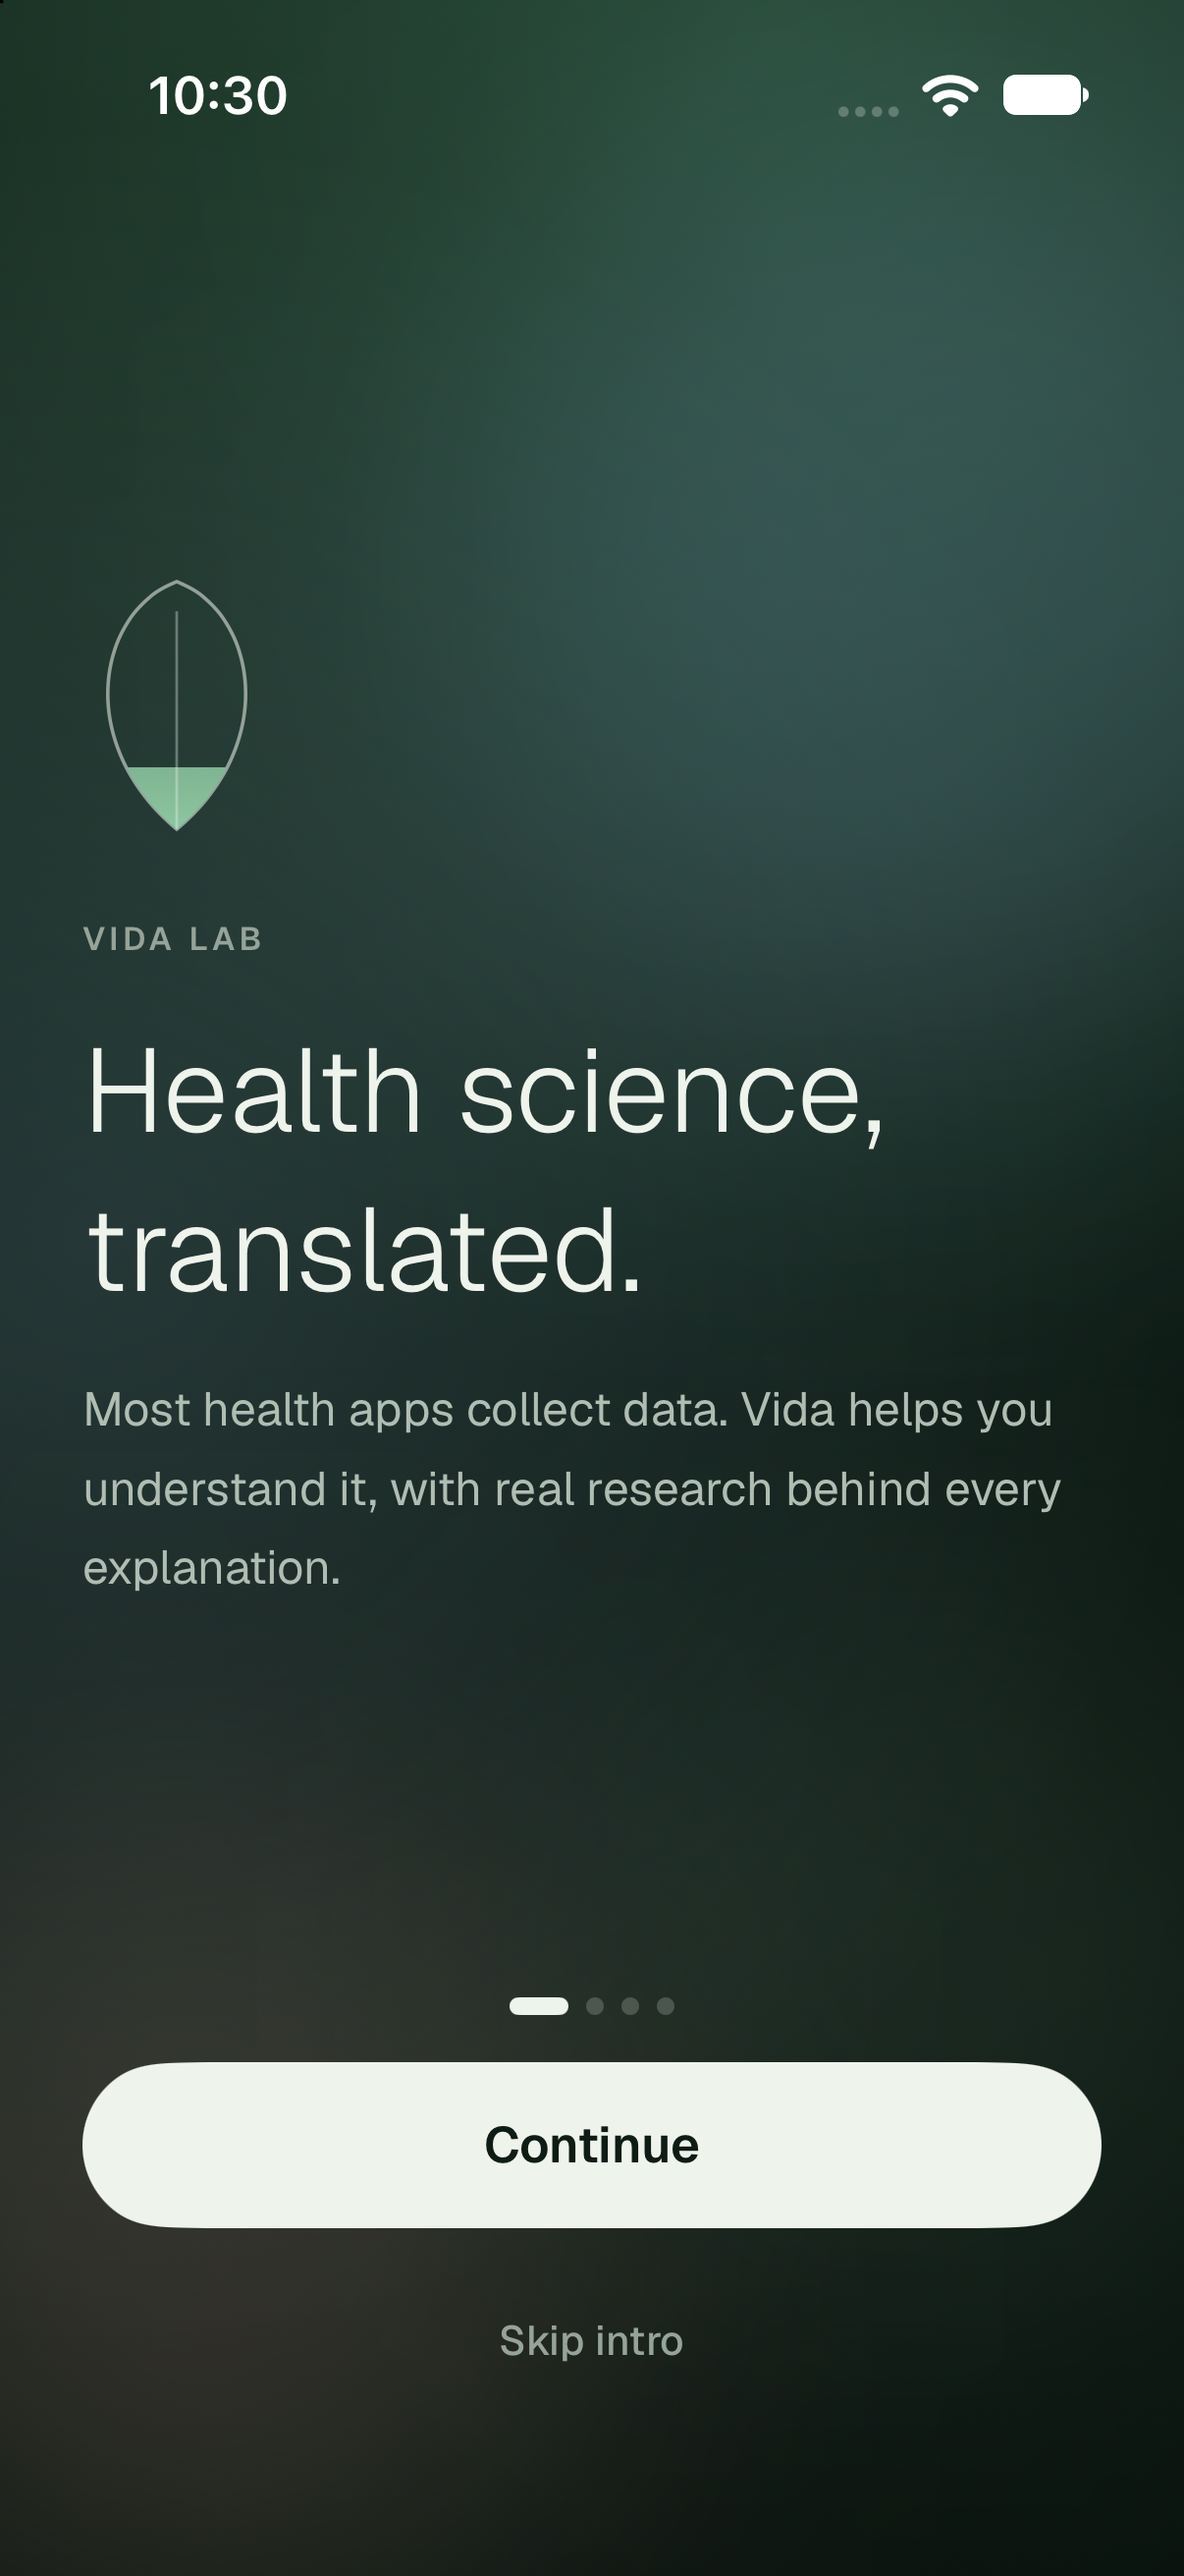
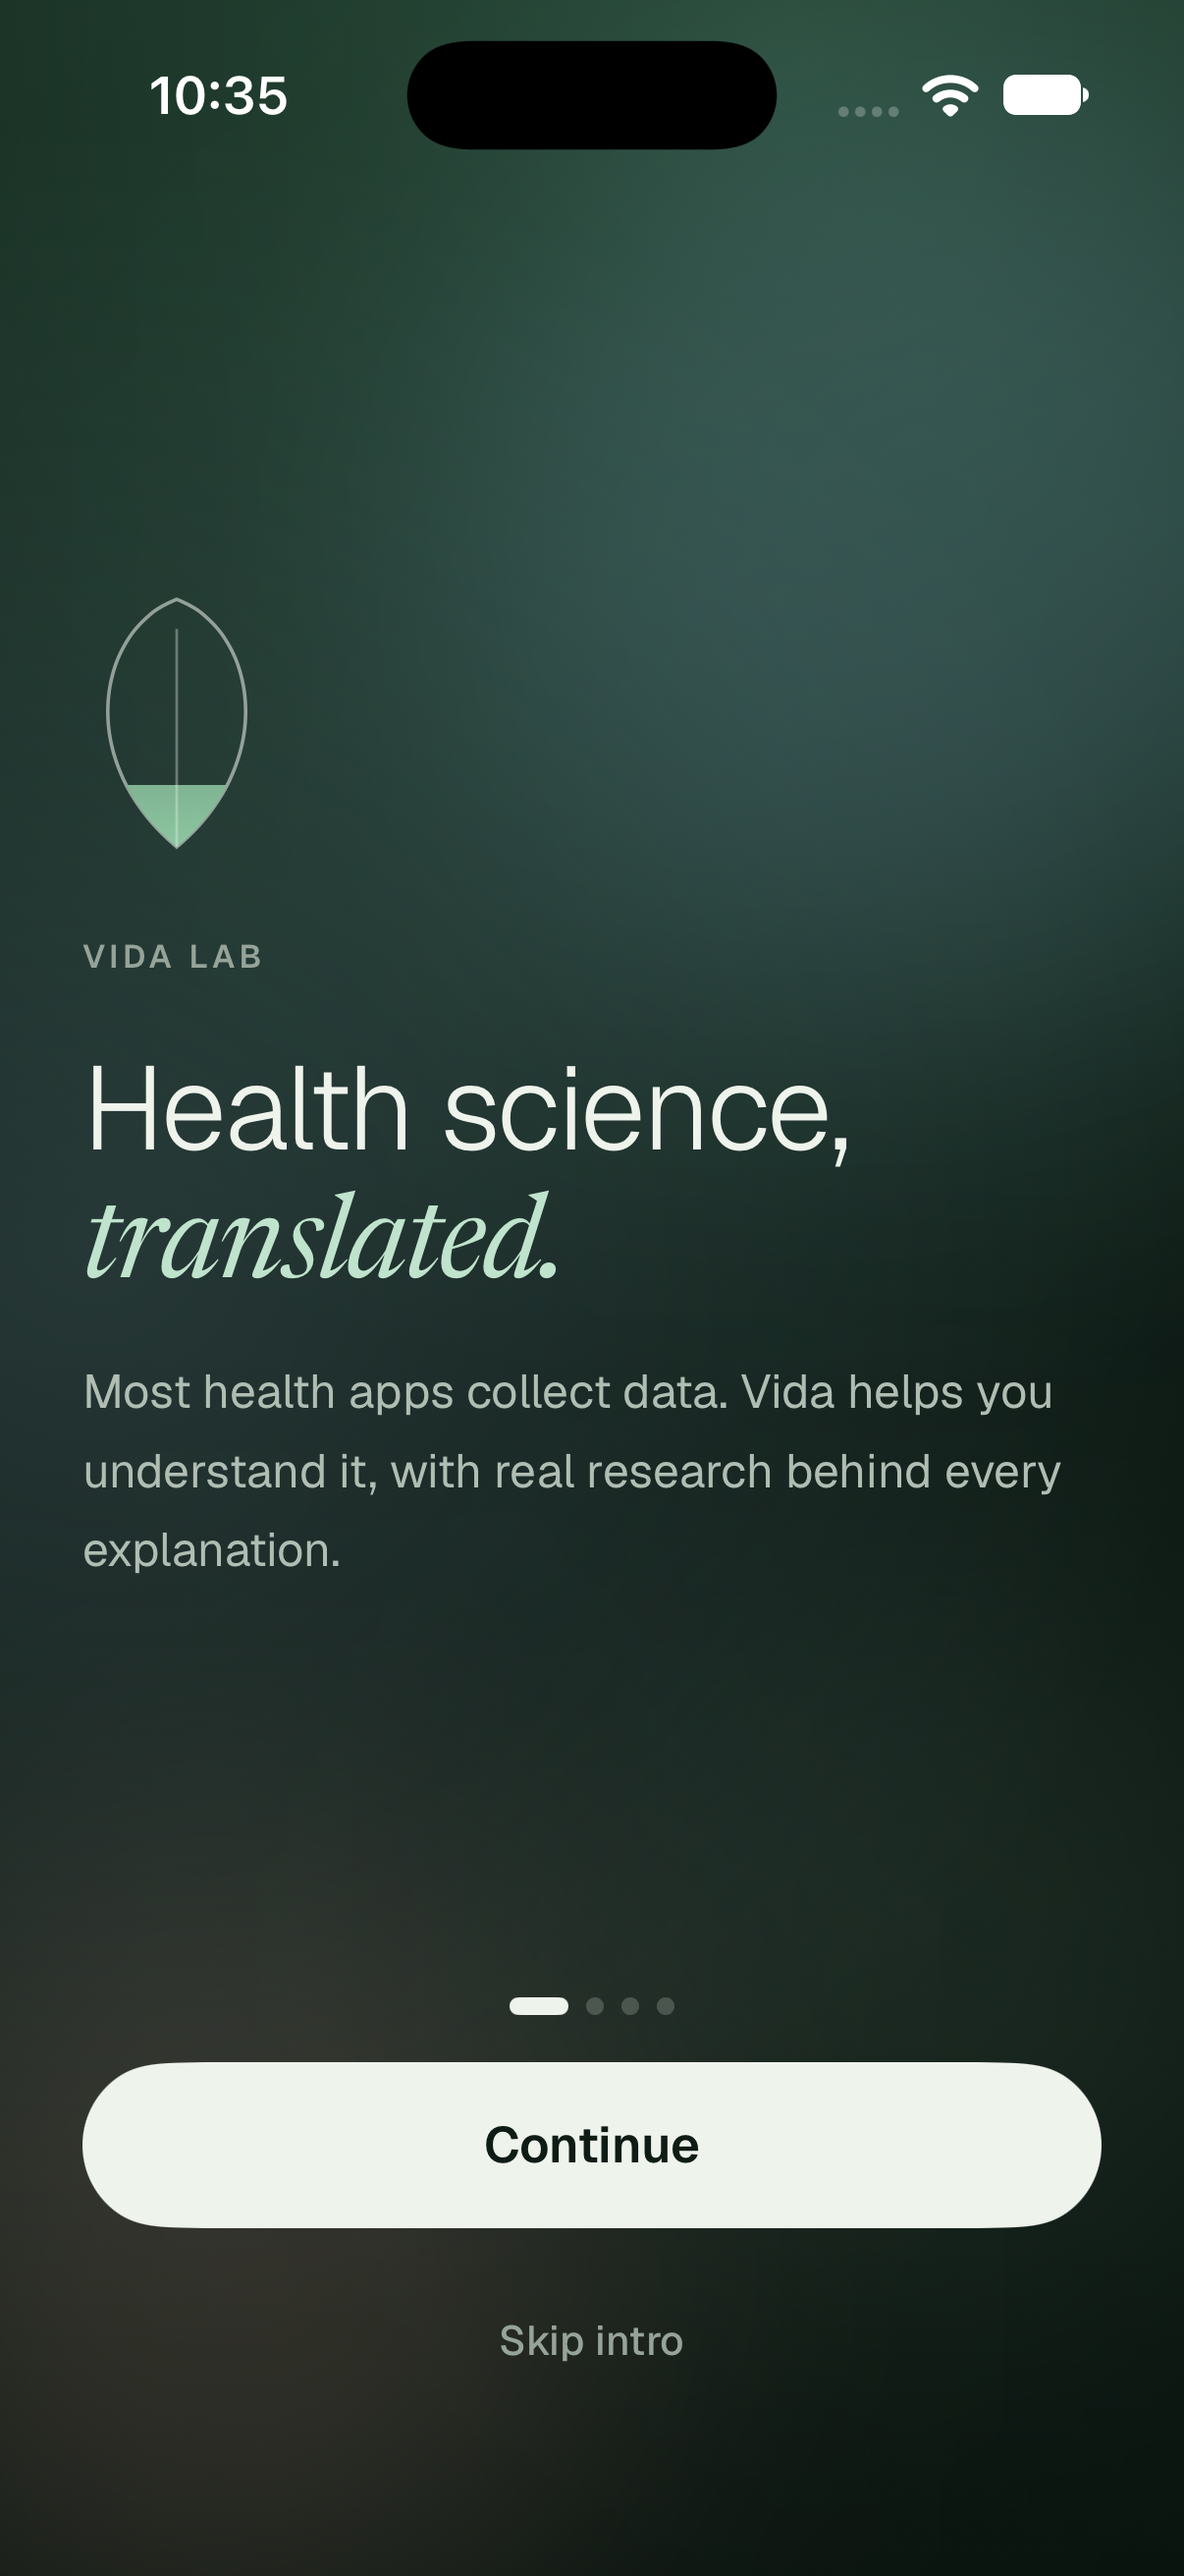
Settings reflects required sign-in; onboarding headlines get the italic accent

diff --git a/ios-vida-signals/VIDALAB/Views/OnboardingView.swift b/ios-vida-signals/VIDALAB/Views/OnboardingView.swift
@@ -62,9 +62,8 @@ struct OnboardingView: View {
 
             Eyebrow(text: content.eyebrow)
 
-            Text(content.title)
-                .font(Vida.serif(40, weight: .regular))
-                .foregroundStyle(Vida.forest)
+            onboardingHeadline(content.title)
+                .tracking(Vida.displayTracking)
                 .lineSpacing(2)
                 .fixedSize(horizontal: false, vertical: true)
 
@@ -202,6 +201,15 @@ struct OnboardingView: View {
                 .contentShape(Rectangle())
             }
         }
+    }
+
+    /// The last line of each headline gets the italic accent, as on every
+    /// other page: "Health science, *translated.*"
+    private func onboardingHeadline(_ title: String) -> Text {
+        guard let split = title.range(of: "\n", options: .backwards) else {
+            return Vida.headline("", accent: title, size: 40)
+        }
+        return Vida.headline(String(title[..<split.upperBound]), accent: String(title[split.upperBound...]), size: 40)
     }
 
     private func advance() {

diff --git a/ios-vida-signals/VIDALAB/Views/SettingsView.swift b/ios-vida-signals/VIDALAB/Views/SettingsView.swift
@@ -234,10 +234,10 @@ struct SettingsView: View {
                             .foregroundStyle(Vida.moss)
                             .frame(width: 22)
                         VStack(alignment: .leading, spacing: 3) {
-                            Text("Create an account")
+                            Text("Sign in")
                                 .font(Vida.sans(15, weight: .medium))
                                 .foregroundStyle(Vida.forest)
-                            Text("It keeps your Vida+ membership if you change phones.")
+                            Text("Your journal is encrypted on this phone and backed up to your account.")
                                 .font(Vida.sans(12))
                                 .foregroundStyle(Vida.inkSoft)
                                 .multilineTextAlignment(.leading)
